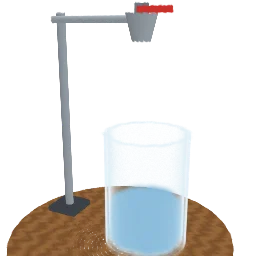
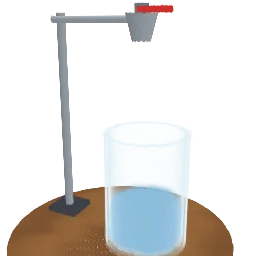
Fluids: calmer wood grain, 0.75 density, lane screenshots
Claude-Session: https://claude.ai/code/session_01T6PdRzfJgPtiDE4syZLfzR

diff --git a/src/packs/fluid-lab.js b/src/packs/fluid-lab.js
@@ -35,8 +35,9 @@ const LAB = { scene: "glass", tapN: 0 };
 // ---- Shared pieces ------------------------------------------------------------------------
 
 function wood(c) {
-  const g = 0.5 + 0.5 * Math.sin(c.p[0] * 40 + c.fbm(c.p[0] * 3, 0, c.p[2] * 12, 3) * 6);
-  return mix("#7a4f2c", "#a0703f", g * 0.7 + c.rand() * 0.05);
+  // A calm, low-frequency grain: fine noise reads as speckle at phone size.
+  const g = 0.5 + 0.5 * Math.sin(c.p[0] * 7 + c.fbm(c.p[0] * 1.2, 0, c.p[2] * 3, 2) * 2.5);
+  return mix("#7d5230", "#9a6a3c", g * 0.8);
 }
 
 // A glass, drawn by the fluid engine (kind "vessel"): clear where you look
@@ -241,7 +242,7 @@ export const RECIPES = {
     turntable: false,
     // The props need fewer splats than a toy's whole budget; the rest is left
     // for drawing the fluid.
-    density: 0.5,
+    density: 0.75,
     // Lab: the sharper splat edge (labs only, like this toy) keeps a liquid's
     // surface crisp instead of cloudy; smoke, steam and flames keep the soft
     // Gaussian. Read after build, so it follows the scene just built.
